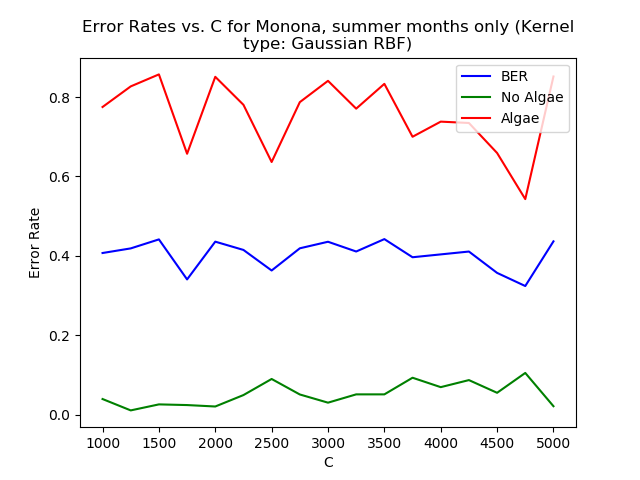
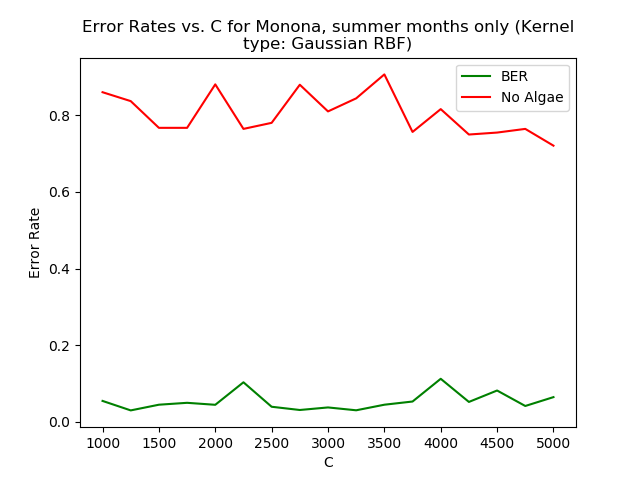
adjustment of error rate calculation

diff --git a/Code/Gaussian_RBF_Kernel.py b/Code/Gaussian_RBF_Kernel.py
@@ -106,11 +106,11 @@ def main():
 
     num_iterations = 1
 
-    c = np.linspace(start=1000, stop=5000, num=17)
+    c = np.linspace(start=10000, stop=50000, num=17)
 
     for i in range(0, len(data_vec)):
         # create vectors for plotting error rates for each kernel
-        y_ber = np.zeros(c.shape[0])
+        # y_ber = np.zeros(c.shape[0])
         y_no_alg = np.zeros(c.shape[0])
         y_alg = np.zeros(c.shape[0])
 
@@ -128,7 +128,7 @@ def main():
                 decision_function_shape="ovo"
             )
 
-            cumulative_ber = 0
+            # cumulative_ber = 0
             cumulative_no_alg_error = 0
             cumulative_alg_error = 0
 
@@ -144,29 +144,28 @@ def main():
                 svc.fit(x_train, y_train)
                 pred_labels_test = svc.predict(x_test)
 
-                ber, no_alg_error, alg_error, _ = calculate_error(pred_labels_test, y_test)
+                no_alg_error, alg_error = calculate_error(pred_labels_test, y_test)
 
-                cumulative_ber += ber
+                # cumulative_ber += ber
                 cumulative_no_alg_error += no_alg_error
                 cumulative_alg_error += alg_error
 
-            total_ber = cumulative_ber / num_iterations
+            # total_ber = cumulative_ber / num_iterations
             total_no_alg_error = cumulative_no_alg_error / num_iterations
             total_alg_error = cumulative_alg_error / num_iterations
 
-            y_ber[k] = total_ber
+            # y_ber[k] = total_ber
             y_no_alg[k] = total_no_alg_error
             y_alg[k] = total_alg_error
 
             print_results(
                 title="Results for " + data_desc[i] + " (Kernel type: Gaussian RBF, C = " + str(c[k]) + ")",
-                ber=total_ber,
                 no_alg_error=total_no_alg_error,
                 alg_error=total_alg_error
             )
 
         plt.figure()
-        plt.plot(c, y_ber, "b", c, y_no_alg, "g", c, y_alg, "r")
+        plt.plot(c, y_no_alg, "g", c, y_alg, "r")
         plt.ylabel("Error Rate")
         plt.xlabel("C")
         plt.legend(("BER", "No Algae", "Algae"))
@@ -185,43 +184,65 @@ def calculate_error(pred_labels, target_labels):
     # be necessary to calculate BER and other relevant errors for evaluation of the kernel trick with linear
     # classification. mat_conf is a 2x2 matrix because we only have two labels: no algae and algae. Each entry in
     # mat_conf is the sum of occurrences of each predicted label for each true label.
-    mat_conf = np.zeros(shape=(2, 2), dtype=int)
+    # mat_conf = np.zeros(shape=(2, 2), dtype=int)
 
     if len(pred_labels) != len(target_labels):
         print("Predicted and target label arrays are not the same length!")
         sys.exit()
 
-    # This for loop will populate mat_conf with the true labels and the predicted labels simultaneously.
+    no_alg = 0   # number of 0s (no algae) in target_labels
+    no_alg_error = 0 # number of incorrect predictions on no algae (expected 0 but pred_labels[i] gave 1)
+    alg = 0   # number of 1s (algae) in target_labels
+    alg_error = 0 # number of incorrect predictions on algae (expected 1 but pred_labels[i] gave 0)
+
     for i in range(0, len(pred_labels)):
-        if (pred_labels[i] == 0) and (target_labels[i] == 0):
-            mat_conf[0, 0] += 1
-        elif (pred_labels[i] == 1) and (target_labels[i] == 0):
-            mat_conf[0, 1] += 1
-        elif (pred_labels[i] == 0) and (target_labels[i] == 1):
-            mat_conf[1, 0] += 1
-        elif (pred_labels[i] == 1) and (target_labels[i] == 1):
-            mat_conf[1, 1] += 1
+        if target_labels[i] == 0:
+            no_alg += 1
+            if pred_labels[i] == 1:
+                no_alg_error += 1
+        elif target_labels[i] == 1:
+            alg += 1
+            if pred_labels[i] == 0:
+                alg_error += 1
+        else:
+            print("Unexpected target label: ", target_labels[i])
+            sys.exit()
 
-    # Calculate relevant errors and accuracies
-    # Given a confusion matrix as follows:
-    # [ a b ]
-    # [ c d ]
-    # We can define the following equations:
-    # Balanced Error Rate (BER) = (b / (a + b) + c / (c + d)) / 2
-    # error per label = each of the terms in the numerator of BER. ex: b / (a + b)
+    no_alg_error = no_alg_error / no_alg
+    alg_error = alg_error / alg
 
-    ber = (mat_conf[0, 1] / (mat_conf[0, 0] + mat_conf[0, 1]) + mat_conf[1, 0] / (mat_conf[1, 1] + mat_conf[1, 0])) / 2
+    return no_alg_error, alg_error
 
-    no_alg_error = mat_conf[0, 1] / (mat_conf[0, 0] + mat_conf[0, 1])
-    alg_error = mat_conf[1, 0] / (mat_conf[1, 1] + mat_conf[1, 0])
-
-    return ber, no_alg_error, alg_error, mat_conf
+    # This for loop will populate mat_conf with the true labels and the predicted labels simultaneously.
+    # for i in range(0, len(pred_labels)):
+    #     if (pred_labels[i] == 0) and (target_labels[i] == 0):
+    #         mat_conf[0, 0] += 1
+    #     elif (pred_labels[i] == 1) and (target_labels[i] == 0):
+    #         mat_conf[0, 1] += 1
+    #     elif (pred_labels[i] == 0) and (target_labels[i] == 1):
+    #         mat_conf[1, 0] += 1
+    #     elif (pred_labels[i] == 1) and (target_labels[i] == 1):
+    #         mat_conf[1, 1] += 1
+    #
+    # # Calculate relevant errors and accuracies
+    # # Given a confusion matrix as follows:
+    # # [ a b ]
+    # # [ c d ]
+    # # We can define the following equations:
+    # # Balanced Error Rate (BER) = (b / (a + b) + c / (c + d)) / 2
+    # # error per label = each of the terms in the numerator of BER. ex: b / (a + b)
+    #
+    # ber = (mat_conf[0, 1] / (mat_conf[0, 0] + mat_conf[0, 1]) + mat_conf[1, 0] / (mat_conf[1, 1] + mat_conf[1, 0])) / 2
+    #
+    # no_alg_error = mat_conf[0, 1] / (mat_conf[0, 0] + mat_conf[0, 1])
+    # alg_error = mat_conf[1, 0] / (mat_conf[1, 1] + mat_conf[1, 0])
+    #
+    # return ber, no_alg_error, alg_error, mat_conf
 
 
 # This method prints the results of the linear classification
-def print_results(title, ber, no_alg_error, alg_error):
+def print_results(title, no_alg_error, alg_error):
     print(title)
-    print("BER:", ber)
     print("No Algae Prediction Error:", no_alg_error)
     print("Algae Prediction Error:", alg_error)
     print("---------------------------------------------------------------------------\n")
